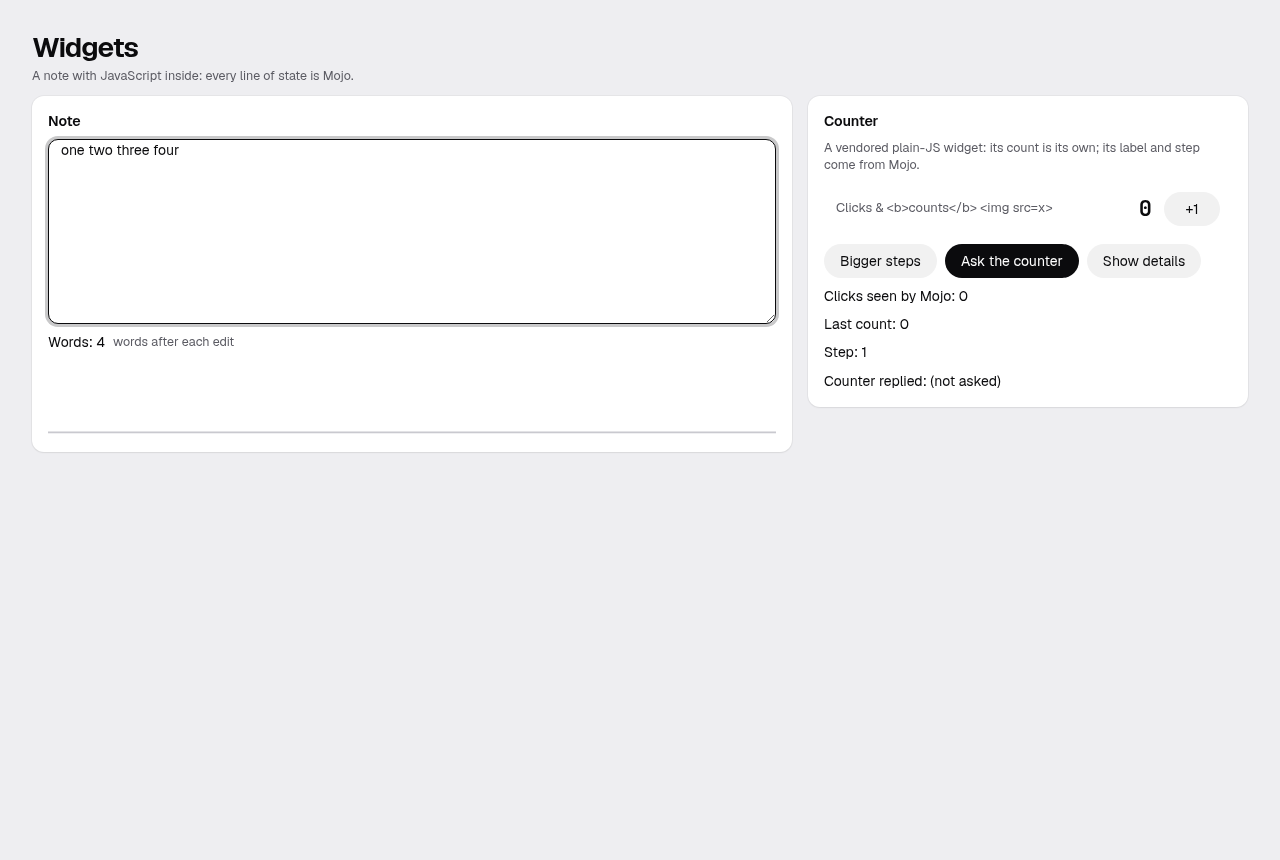
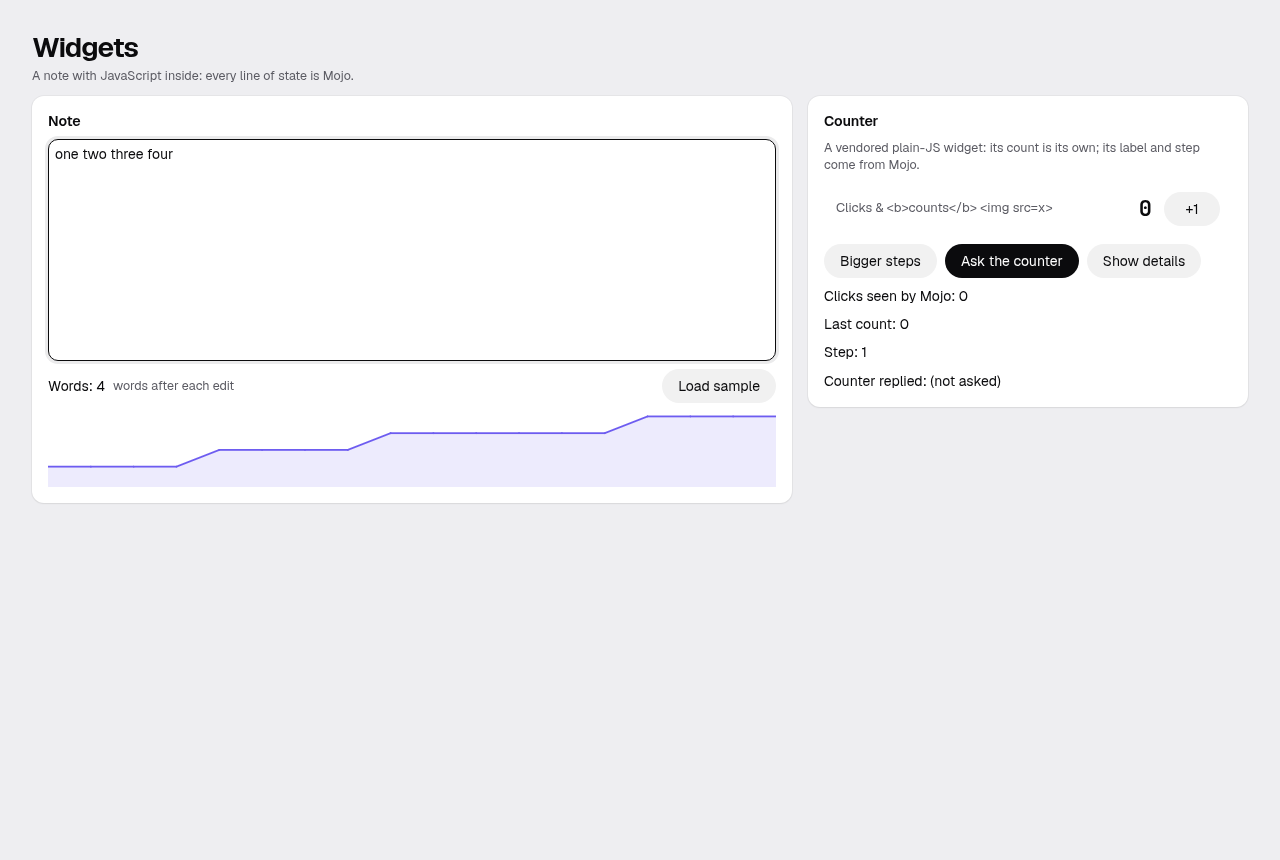
Goal 34 M1: CodeMirror 6 from npm as a TypeScript widget, bundled offline by esbuild (npm ci from the lockfile into build/); new_widget.sh; docs/js.md; focus and selection kept across rebuilds (D-602–D-605)
M0 and M1 PASS.

diff --git a/examples/widgets/web/widgets/editor.ts b/examples/widgets/web/widgets/editor.ts
@@ -1,0 +1,52 @@
+// mx-editor: CodeMirror 6 (from npm: web/package.json, pinned by package-lock.json) as a mojoui widget, in TypeScript.
+// esbuild bundles and minifies it with CodeMirror at build time (scripts/web_assets.py). Props: doc and rev (Mojo's text
+// replaces the editor's only when rev moves on: Load sample), placeholder. Each edit emits "change" {text}; commands:
+// focus, selection (→ {anchor, head}), text (→ {text}).
+/// <reference path="../../../../mojoui/hosts/static/mojoui-widgets.d.ts" />
+import { Annotation, EditorState } from '@codemirror/state';
+import { EditorView, keymap, placeholder } from '@codemirror/view';
+import { defaultKeymap, history, historyKeymap } from '@codemirror/commands';
+
+type Props = { doc?: string; rev?: number; placeholder?: string };
+type Host = HTMLElement & { mojouiView?: EditorView; mojouiRev?: number };
+
+const fromMojo = Annotation.define<boolean>();  // (a change Mojo made: not sent back as an edit)
+
+mojoui.defineWidget<Props, Host>({
+  tag: 'mx-editor',
+  events: ['change'],
+  mount(el, props, emit) {
+    el.mojouiRev = props.rev ?? 0;
+    const sendEdits = EditorView.updateListener.of(u => {
+      if (u.docChanged && !u.transactions.some(t => t.annotation(fromMojo))) emit('change', { text: u.state.doc.toString() }, { latest: true });
+    });
+    el.mojouiView = new EditorView({
+      parent: el,
+      state: EditorState.create({
+        doc: props.doc ?? '',
+        extensions: [history(), keymap.of([...defaultKeymap, ...historyKeymap]), placeholder(props.placeholder ?? ''),
+          EditorView.lineWrapping, EditorView.contentAttributes.of({ 'aria-label': 'Note' }), sendEdits],
+      }),
+    });
+  },
+  update(el, props) {
+    const view = el.mojouiView;
+    if (!view || props.rev === undefined || props.rev === el.mojouiRev) return;
+    el.mojouiRev = props.rev;
+    const doc = props.doc ?? '';
+    view.dispatch({ changes: { from: 0, to: view.state.doc.length, insert: doc }, selection: { anchor: doc.length }, annotations: fromMojo.of(true) });
+  },
+  destroy(el) {
+    el.mojouiView?.destroy();
+    el.mojouiView = undefined;
+  },
+  commands: {
+    focus(el) { el.mojouiView?.focus(); return true; },
+    selection(el) { const s = el.mojouiView!.state.selection.main; return { anchor: s.anchor, head: s.head }; },
+    text(el) { return { text: el.mojouiView!.state.doc.toString() }; },
+  },
+  describe(el) {
+    const v = el.mojouiView;
+    return v ? `${v.state.doc.length} characters, cursor at ${v.state.selection.main.head}` : 'no editor';
+  },
+});

diff --git a/mojoui/hosts/static/mojoui-widgets.js b/mojoui/hosts/static/mojoui-widgets.js
@@ -129,18 +129,29 @@
     for (const w of list) {
       const el = w.firstElementChild;
       if (!el || !el.mojouiKey) continue;
-      if (el.contains(document.activeElement)) focus = { el, active: document.activeElement };
+      if (el.contains(document.activeElement)) {  // (its keyboard focus and its text selection go back after the swap)
+        const sel = document.getSelection();
+        const range = sel && sel.rangeCount && el.contains(sel.anchorNode) && el.contains(sel.focusNode)
+          ? [sel.anchorNode, sel.anchorOffset, sel.focusNode, sel.focusOffset] : null;
+        focus = { el, active: document.activeElement, range };
+      }
       move(keep(), el);
     }
   }
-  function settle() {
+  function restore() {  // in the same task as the swap: before the browser reports a selection change to the widget
     adopt();
-    for (const el of [...keep().children]) el.remove();  // (its key left the screen: disconnected, destroyed)
-    if (focus) {
-      const { el, active } = focus;
-      focus = null;
-      if (el.isConnected && active.isConnected && !el.contains(document.activeElement)) active.focus({ preventScroll: true });
+    if (!focus) return;
+    const { el, active, range } = focus;
+    focus = null;
+    if (!el.isConnected || !active.isConnected || el.parentElement === keep()) return;
+    if (!el.contains(document.activeElement)) active.focus({ preventScroll: true });
+    if (range && range.every((n, k) => k % 2 || el.contains(n))) {
+      try { document.getSelection().setBaseAndExtent(range[0], range[1], range[2], range[3]); } catch (e) { /* (the widget changed its DOM meanwhile) */ }
     }
+  }
+  function settle() {
+    restore();
+    for (const el of [...keep().children]) el.remove();  // (its key left the screen: disconnected, destroyed)
     runCommands();
   }
 
@@ -158,6 +169,7 @@
     }
     setTimeout(settle, 0);  // (after every swap of this answer: they run back to back)
   });
+  document.addEventListener('htmx:oobAfterSwap', restore);
   document.addEventListener('htmx:afterSettle', settle);
   document.addEventListener('DOMContentLoaded', settle);
 

diff --git a/examples/widgets/web/widgets/editor.css b/examples/widgets/web/widgets/editor.css
@@ -1,0 +1,9 @@
+/* mx-editor's frame in the app's theme (the palette's --o-* variables): CodeMirror styles its own insides. */
+mx-editor { display: block; min-height: 220px; border-radius: 10px; border: 1px solid var(--o-line, rgba(120, 120, 128, .28));
+  background: var(--o-card, #fff); color: var(--o-ink, inherit); overflow: hidden; }
+mx-editor:focus-within { border-color: var(--o-accent, #0a84ff); box-shadow: 0 0 0 3px var(--o-wash, rgba(10, 132, 255, .15)); }
+mx-editor .cm-editor { min-height: 220px; font-size: 14px; line-height: 1.55; }
+mx-editor .cm-editor.cm-focused { outline: none; }
+mx-editor .cm-editor .cm-scroller { font-family: inherit; line-height: inherit; }  /* (the app's text face, not CodeMirror's monospace: it's a note) */
+mx-editor .cm-content { padding: 12px 14px; caret-color: var(--o-accent, currentColor); }
+mx-editor .cm-placeholder { color: var(--o-ink3, #8e8e93); }

diff --git a/scripts/check.py b/scripts/check.py
@@ -172,7 +172,9 @@ def m0():
     if not any(l.startswith("mx-counter#1: count 7, step 2") for l in lines_with(out, "WIDGET: ")):
         problems.append(f"the dump doesn't describe the widget as count 7, step 2 ({lines_with(out, 'WIDGET: ')})")
     # the note: a placeholder editor (a text area), a word count, a small chart drawn by mojoui
-    ok2, out2 = widgets_web("textarea:0=one two three four", shot="m0-note-web.png")
+    # (M0 typed into a text area standing in for the editor; since M1 it's the editor itself)
+    ok2, out2 = widgets_web("keys:mx-editor .cm-content=one two three four" if (ROOT / "examples/widgets/web/widgets/editor.ts").exists()
+                            else "textarea:0=one two three four", shot="m0-note-web.png")
     if not ok2:
         problems.append("note run failed: " + out2[-400:])
     elif "Words: 4" not in lines_with(out2, "LABEL: ") or not re.search(r"^CANVAS: ", out2, re.M) and "[data-kind=canvas]" not in out2:
@@ -219,7 +221,7 @@ def m1():
         if f not in tracked:
             problems.append(f"{f} isn't committed")
     bs = (ROOT / "scripts/build.sh").read_text()
-    if "web/package.json" not in bs or "web_assets.py" not in bs or "widgets" in bs:
+    if "web/package.json" not in bs or "web_assets.py" not in bs or re.search(r"examples/widgets|\bwidgets\b(?!/)", bs):  # (no app named: web/widgets/ is every app's folder)
         problems.append("scripts/build.sh doesn't run the npm/esbuild step generically (for any app with a web/package.json)")
     doc = (ROOT / "docs/js.md").read_text().lower()
     for topic in ("package.json", "definewidget", "webcomponent(", "command", "security", "content-security-policy", "new_widget.sh"):
@@ -272,7 +274,7 @@ def m1():
         problems.append(f"the word count didn't follow (labels {labels[:12]})")
     if "Long note" not in labels:
         problems.append("the rebuild-making line (Long note) never showed")
-    problems += csp_clean(out, "editor run") if (ROOT / "mojoui/hosts/static/csp.txt").exists() else []
+    problems += csp_clean(out, "editor run")
     problems += new_widget_probe()
     return not problems, "; ".join(problems) or ("CodeMirror 6 from npm (lockfile), bundled and minified offline by esbuild, its widget in "
                                                  "TypeScript; typing reaches update() (word count), a rebuild mid-typing keeps the text, cursor, "

diff --git a/docs/decisions.md b/docs/decisions.md
@@ -566,3 +566,7 @@ One line per fork: `D-nn · chose X over Y · why · reversible?`
 - D-599 · Event gains `name` (a widget's event, a command's name) · over packing the name into text with the payload (every app would parse it apart) · reversible? yes
 - D-600 · scripts/drive.py reads every run's CSP violations (an init script listening for securitypolicyviolation) and console errors, and prints them (CSP:, CONSOLE ERRORS:) · checks decide what they allow; M2's injection probe expects exactly its own three · reversible? yes
 - D-601 · the host's own files (htmx, one mojoui.js with every adapter, mojoui.css, the fonts) are served by content hash with a year's immutable cache; /static/htmx.min.js and plain font names stay for older probes · reversible? yes
+- D-602 · an editable widget takes Mojo's value by version (props doc + rev: the editor replaces its text only when rev moves on) and reports edits as events (emit "change" with {latest: true}) · over props that carry the live text (each keystroke's echo could undo the next keystroke, and every patch would resend the whole text) · reversible? yes
+- D-603 · npm packages install with `npm ci --ignore-scripts` from the committed lockfile into build/<app>/npm (skipped while package.json and the lockfile are unchanged); esbuild finds them through NODE_PATH, so node_modules is never next to the app or in git; TypeScript is compiled by esbuild (types stripped, not checked: mojoui-widgets.d.ts is for editors and tsc) · over a vendored node_modules or a type-check step in every build · reversible? yes
+- D-604 · the web host gives a moved widget back its keyboard focus and text selection in the same task as the swap (htmx:oobAfterSwap), not in a later settle · the first M1 run lost CodeMirror's cursor: the moves reset the DOM selection, and CodeMirror read it on the next selectionchange, so the keys typed after a rebuild went to the start · reversible? yes
+- D-605 · scripts/new_widget.sh <name> [<app>] [--ts] writes one widget file from a template (tag mx-<name>, a label prop, a ping event, a read command); M1's proof builds it into a scratch app and drives it · reversible? yes

diff --git a/docs/journal.md b/docs/journal.md
@@ -604,3 +604,9 @@ Owner asked how omxapp/omxplorer become agent-native. Drew `docs/design/agent/bo
 - The step format splits on ";": the checks' js probes are expressions without one.
 - A 404 for /favicon.ico was a console error on every page: the host answers 204.
 - The CSP went in with M0's host changes (the M2 proof was already written): M0 PASS, M4 (goal 33's M1, M2, M4, M5) PASS under it.
+
+## 2026-10-27 · goal 34 M1
+- CodeMirror 6 (@codemirror/state 6.5.2, view 6.38.1, commands 6.8.1; lockfile from `npm install --package-lock-only --ignore-scripts`), its widget in TypeScript (editor.ts, 257 KB minified with CodeMirror). Mojo builds of the app take ~13 s; npm ci is skipped after the first build.
+- First run: after the rebuild mid-typing (a "Long note" line appears past five words) the next keys landed at the start: "ixone two three four five s". The park/adopt moves reset the DOM selection and CodeMirror took it on selectionchange, because focus and selection were put back only in a later task. Now restored in htmx:oobAfterSwap, synchronously (D-604): text, cursor, focus and the one mount survive.
+- The editor first drew in CodeMirror's monospace: its own theme's `.ͼ1 .cm-scroller` beat my rule; a more specific one gives the note the app's face.
+- M1's build.sh check flagged its own comment's "web/widgets/" as an app name: the check now looks for an app name, not that folder.
